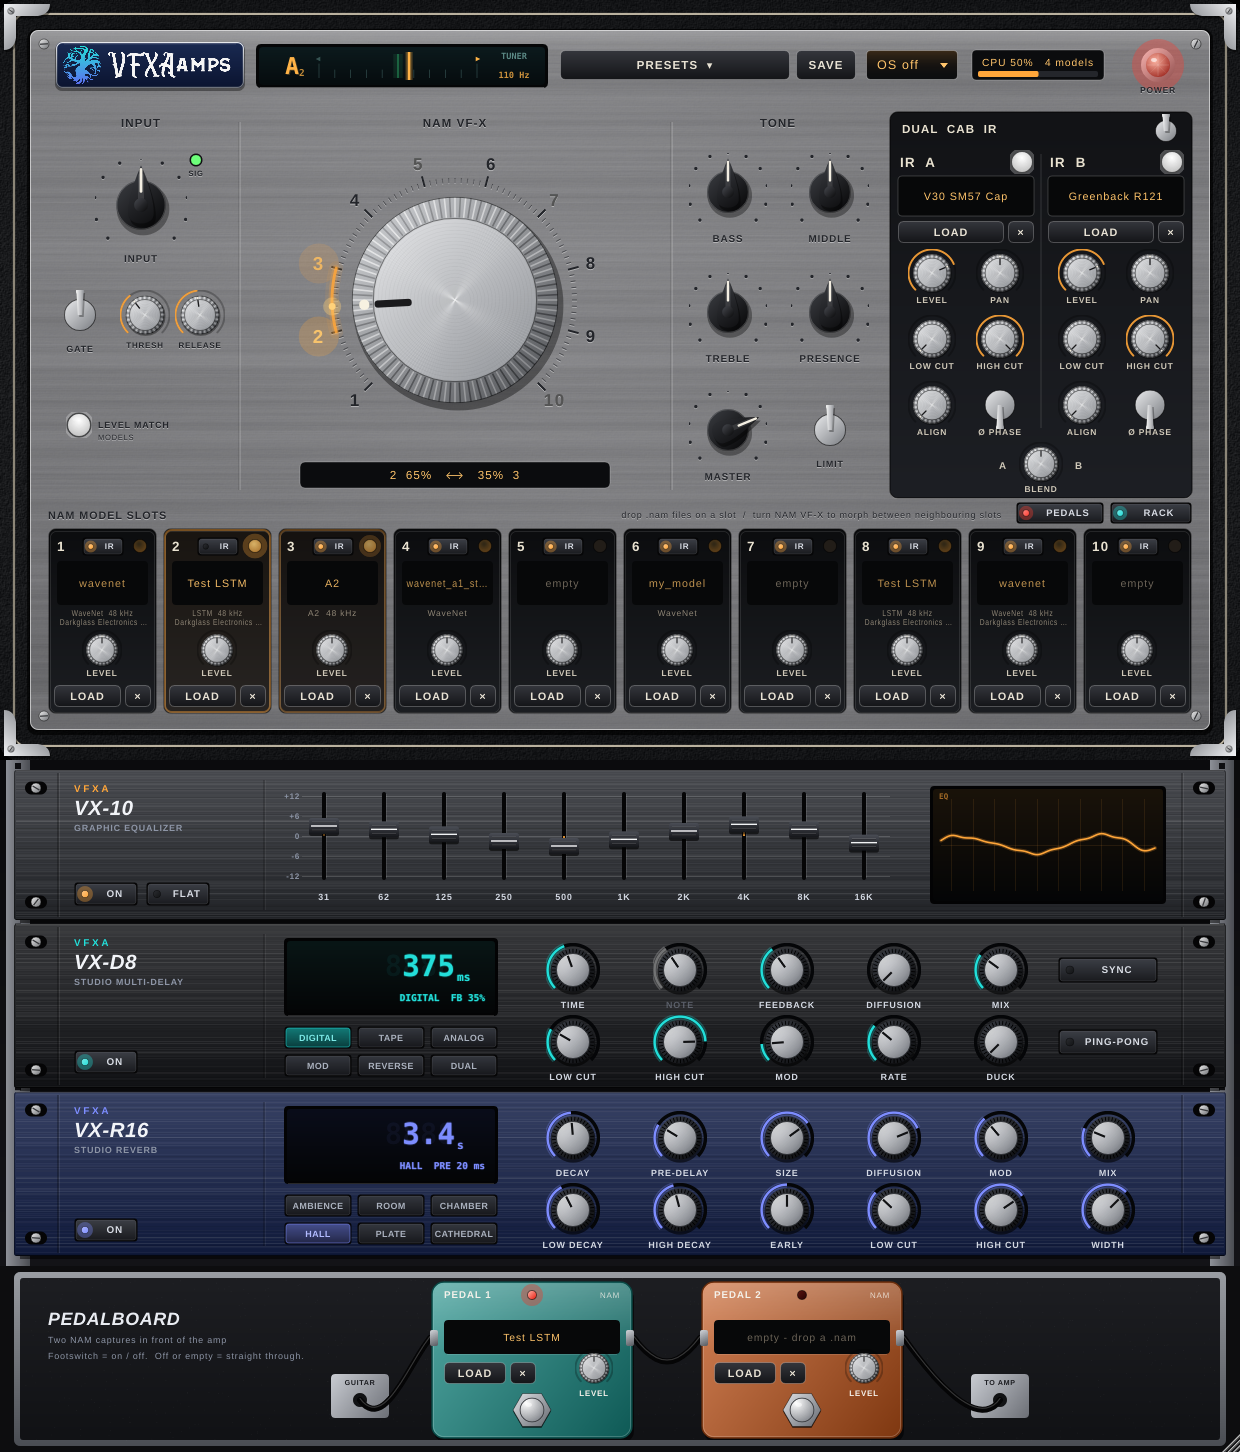
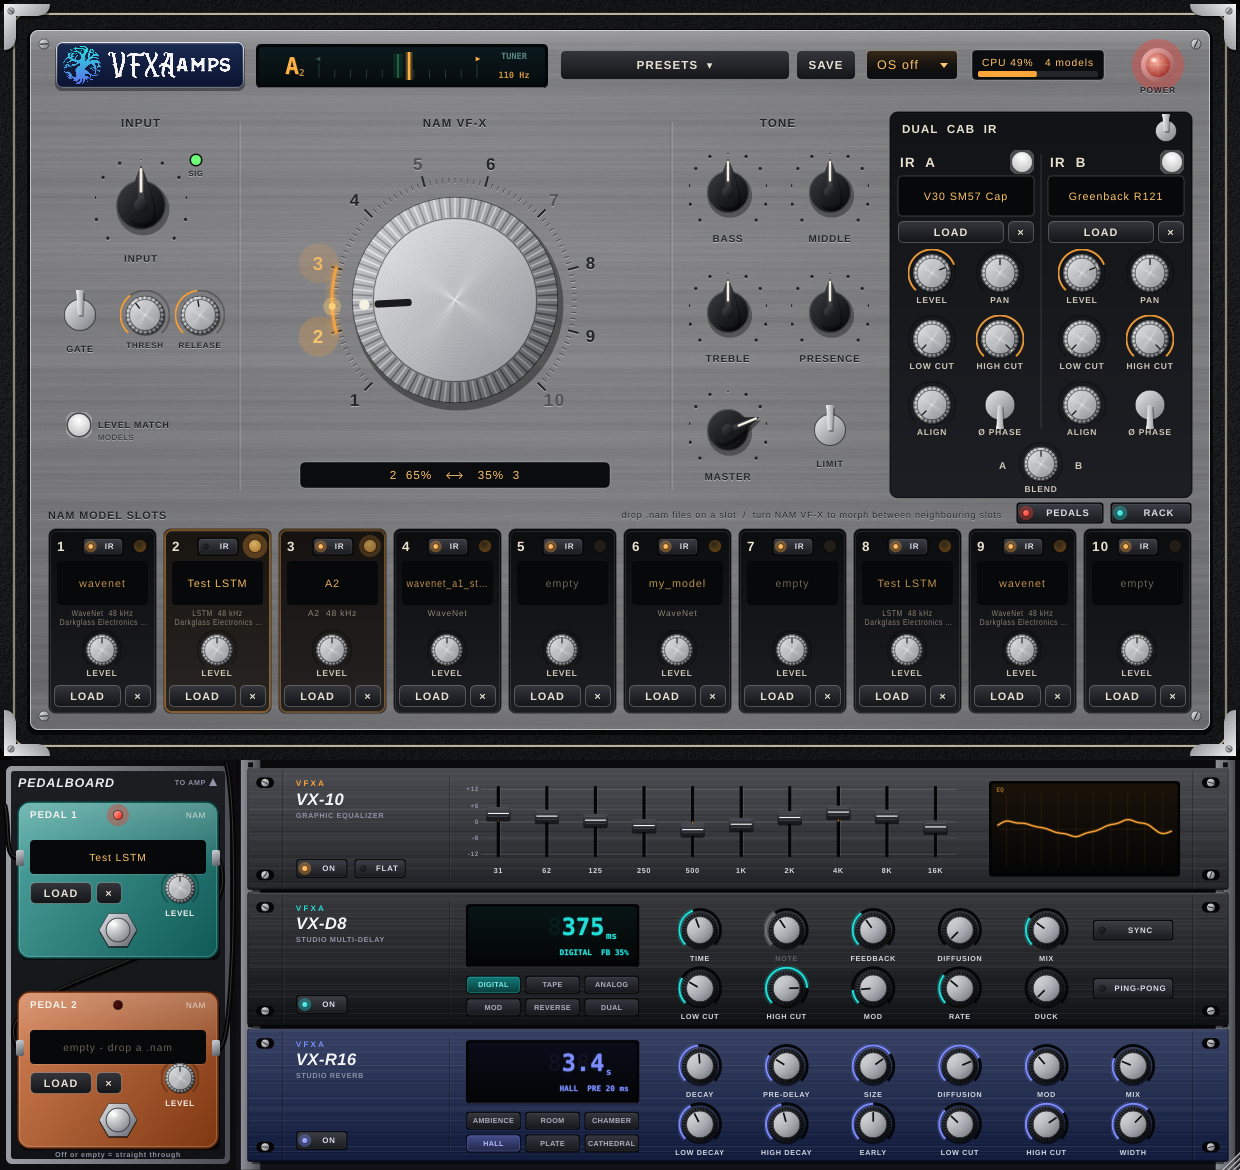
Squarer layout: pedals in a column beside the effects rack
With the rack and pedals both shown, the pedalboard becomes a vertical
column (guitar -> pedal 1 -> pedal 2 -> up to the amp) and the rack is
scaled to the remaining width: 1240 x 1170 instead of 1240 x 1452.
Rack only: 1240 x 1266. Pedals only: the strip under the amp as before.

Claude-Session: https://claude.ai/code/session_01MovpvFUmw8eqVRn3dgbpK6

diff --git a/source/ui/Pedals.cpp b/source/ui/Pedals.cpp
@@ -188,10 +188,69 @@ Pedalboard::Pedalboard (VFXAampsProcessor& p)
     setSize (kWidth, kHeight);
 }
 
+void Pedalboard::setVertical (bool v)
+{
+    if (v == vertical) return;
+    vertical = v;
+    resized();
+    repaint();
+}
+
 void Pedalboard::resized()
 {
+    if (vertical)
+    {
+        p1.setBounds (16, 40, 204, 160);
+        p2.setBounds (16, 230, 204, 160);
+        return;
+    }
     p1.setBounds (430, 14, 204, 160);
     p2.setBounds (700, 14, 204, 160);
+}
+
+void Pedalboard::paintVertical (Graphics& g)
+{
+    const auto r = getLocalBounds().toFloat();
+    g.setColour (Colour (0xff0d0d0f));
+    g.fillRect (r);
+    auto board = r.reduced (6.0f, 6.0f);
+    g.setGradientFill (ColourGradient (Colour (0xff9a9da3), board.getTopLeft(), Colour (0xff4a4d53), board.getTopRight(), false));
+    g.fillRoundedRectangle (board, 6.0f);
+    auto felt = board.reduced (5.0f);
+    g.setGradientFill (ColourGradient (Colour (0xff1d1e22), felt.getTopLeft(), Colour (0xff111215), felt.getBottomLeft(), false));
+    g.fillRoundedRectangle (felt, 3.0f);
+    Random rng (17);
+    for (int i = 0; i < 300; ++i)
+    {
+        g.setColour (Colour (0x0affffff));
+        g.fillRect (felt.getX() + rng.nextFloat() * felt.getWidth(), felt.getY() + rng.nextFloat() * felt.getHeight(), 1.0f, 1.0f);
+    }
+    g.setFont (Font (FontOptions (14.0f, Font::bold | Font::italic)).withExtraKerningFactor (0.06f));
+    g.setColour (Colour (0xffe9ecf2));
+    g.drawText ("PEDALBOARD", Rectangle<float> (18.0f, 14.0f, 200.0f, 18.0f), Justification::centredLeft);
+
+    // patch cables (drawn under the pedals): guitar -> pedal 1 -> pedal 2 -> up to the amp
+    auto cable = [&] (Path p)
+    {
+        g.setColour (Colour (0xff050506));
+        g.strokePath (p, PathStrokeType (5.0f, PathStrokeType::curved, PathStrokeType::rounded));
+        g.setColour (Colour (0x30ffffff));
+        g.strokePath (p, PathStrokeType (1.0f, PathStrokeType::curved, PathStrokeType::rounded), AffineTransform::translation (0.0f, -1.2f));
+    };
+    const float j1 = 40.0f + 58.0f, j2 = 230.0f + 58.0f;
+    Path in;  in.startNewSubPath (5.0f, 46.0f);  in.cubicTo (10.0f, 70.0f, 4.0f, j1, 18.0f, j1);
+    Path mid; mid.startNewSubPath (218.0f, j1);  mid.cubicTo (262.0f, 205.0f, -26.0f, 215.0f, 18.0f, j2);
+    Path out; out.startNewSubPath (218.0f, j2);  out.cubicTo (236.0f, 300.0f, 238.0f, 30.0f, 226.0f, 4.0f);
+    cable (in);
+    cable (mid);
+    cable (out);
+    g.setFont (AmpLookAndFeel::labelFont (8.0f));
+    g.setColour (Colour (0xff8d95a6));
+    g.drawText ("TO AMP", Rectangle<float> (140.0f, 14.0f, 66.0f, 18.0f), Justification::centredRight);
+    Path arrow;
+    arrow.addTriangle (213.0f, 18.0f, 209.0f, 26.0f, 217.0f, 26.0f);
+    g.fillPath (arrow);
+    g.drawText ("Off or empty = straight through", Rectangle<float> (14.0f, r.getBottom() - 22.0f, 208.0f, 14.0f), Justification::centred);
 }
 
 void Pedalboard::tick() { p1.tick(); p2.tick(); }
@@ -199,6 +258,7 @@ void Pedalboard::refresh() { p1.refresh(); p2.refresh(); }
 
 void Pedalboard::paint (Graphics& g)
 {
+    if (vertical) { paintVertical (g); return; }
     const auto r = getLocalBounds().toFloat();
     // board: dark carpet-like surface in an aluminium frame
     g.setColour (Colour (0xff0d0d0f));

diff --git a/source/PluginEditor.cpp b/source/PluginEditor.cpp
@@ -612,9 +612,18 @@ VFXAampsEditor::~VFXAampsEditor()
     setLookAndFeel (nullptr);
 }
 
+namespace
+{
+// With both shown, the pedals sit in a column beside the rack and the rack is scaled to the remaining width,
+// which keeps the whole rig close to square.
+constexpr double kSideRackScale = static_cast<double> (vfxa::ui::Rack::kWidth - vfxa::ui::Pedalboard::kColumnWidth) / vfxa::ui::Rack::kWidth;
+}
+
 int VFXAampsEditor::baseHeight() const noexcept
 {
-    return vfxa::ui::AmpFace::kHeight + (rackShown ? vfxa::ui::Rack::kHeight : 0) + (pedalsShown ? vfxa::ui::Pedalboard::kHeight : 0);
+    using F = vfxa::ui::AmpFace;
+    if (rackShown && pedalsShown) return F::kHeight + vfxa::ui::Pedalboard::kColumnHeight;
+    return F::kHeight + (rackShown ? vfxa::ui::Rack::kHeight : 0) + (pedalsShown ? vfxa::ui::Pedalboard::kHeight : 0);
 }
 
 void VFXAampsEditor::setSectionsShown (bool showRack, bool showPedals)
@@ -624,6 +633,7 @@ void VFXAampsEditor::setSectionsShown (bool showRack, bool showPedals)
     pedalsShown = showPedals;
     rack.setVisible (showRack);
     pedalboard.setVisible (showPedals);
+    pedalboard.setVertical (showRack && showPedals);
     face.rackButton.setToggleState (showRack, juce::dontSendNotification);
     face.pedalsButton.setToggleState (showPedals, juce::dontSendNotification);
     proc.getSettings().setValue ("rackShown", showRack);
@@ -640,12 +650,23 @@ void VFXAampsEditor::resized()
     const float scale = static_cast<float> (getWidth()) / static_cast<float> (F::kWidth);
     face.setTransform (juce::AffineTransform::scale (scale));
     face.setBounds (0, 0, F::kWidth, F::kHeight);
-    int y = F::kHeight;
-    rack.setTransform (juce::AffineTransform::scale (scale));
-    rack.setBounds (0, y, vfxa::ui::Rack::kWidth, vfxa::ui::Rack::kHeight);
-    if (rackShown) y += vfxa::ui::Rack::kHeight;
-    pedalboard.setTransform (juce::AffineTransform::scale (scale));
-    pedalboard.setBounds (0, y, vfxa::ui::Pedalboard::kWidth, vfxa::ui::Pedalboard::kHeight);
+    const int y = F::kHeight;
+    if (rackShown && pedalsShown)
+    {
+        using PB = vfxa::ui::Pedalboard;
+        pedalboard.setTransform (juce::AffineTransform::scale (scale));
+        pedalboard.setBounds (0, y, PB::kColumnWidth, PB::kColumnHeight);
+        rack.setTransform (juce::AffineTransform::scale (static_cast<float> (scale * kSideRackScale))
+                               .translated (PB::kColumnWidth * scale, y * scale));
+        rack.setBounds (0, 0, vfxa::ui::Rack::kWidth, vfxa::ui::Rack::kHeight);
+    }
+    else
+    {
+        rack.setTransform (juce::AffineTransform::scale (scale));
+        rack.setBounds (0, y, vfxa::ui::Rack::kWidth, vfxa::ui::Rack::kHeight);
+        pedalboard.setTransform (juce::AffineTransform::scale (scale));
+        pedalboard.setBounds (0, rackShown ? y + vfxa::ui::Rack::kHeight : y, vfxa::ui::Pedalboard::kWidth, vfxa::ui::Pedalboard::kHeight);
+    }
     proc.getSettings().setValue ("uiScale", scale);
 }
 

diff --git a/source/ui/Pedals.h b/source/ui/Pedals.h
@@ -52,15 +52,20 @@ private:
 class Pedalboard : public juce::Component
 {
 public:
-    static constexpr int kWidth = 1240, kHeight = 186;
+    static constexpr int kWidth = 1240, kHeight = 186;          // horizontal strip (pedals only)
+    static constexpr int kColumnWidth = 236, kColumnHeight = 410; // vertical column beside the rack
     explicit Pedalboard (VFXAampsProcessor&);
+    void setVertical (bool v);
+    bool isVertical() const noexcept { return vertical; }
     void tick();
     void refresh();
     void paint (juce::Graphics&) override;
     void resized() override;
 
 private:
+    void paintVertical (juce::Graphics&);
     PedalUnit p1, p2;
+    bool vertical = false;
 };
 
 } // namespace vfxa::ui
